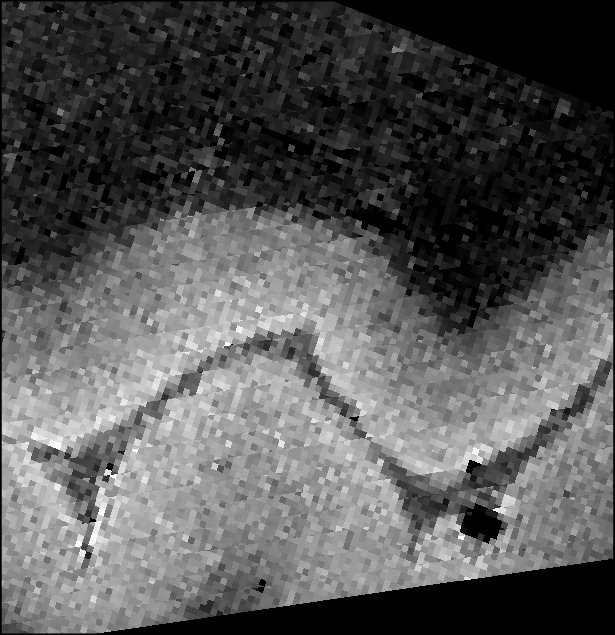
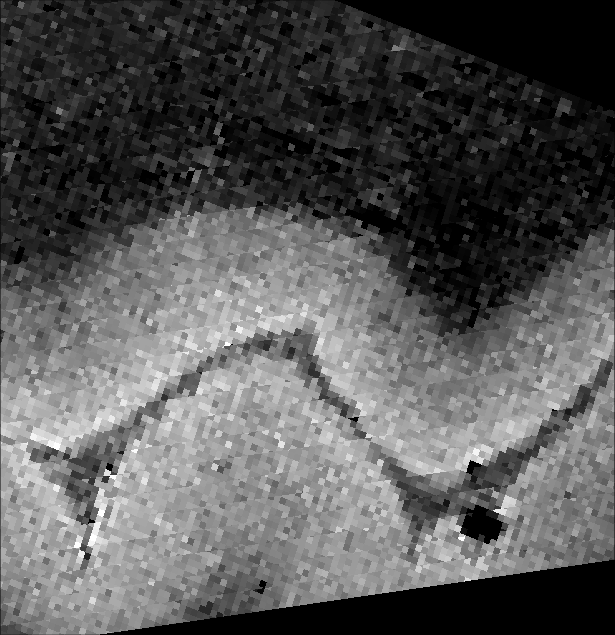
I46 en-face panels: one zoom per freeview session, explicit default windows, accurate captions
freeview multiplies -zoom within a session, so later panels were drawn up to 0.5 % smaller: the zoom is now given once per
session. The windows are freeview's default ones passed explicitly, so a window freeview remembers for a file cannot replace
them. The tools run no longer shoots the OCT of plane 300 again. Captions: the 12 um OCT is the one octreg received, the line
is the label made a surface by mri_mc and mris_smooth -n 3, and a tool shows no line where its boundary does not cross the
plane inside the OCT field of view. The MRI-grid description in bench/i46 is scoped to those panels.

diff --git a/bench/i46/figures.py b/bench/i46/figures.py
@@ -13,19 +13,22 @@ conditions/  for every condition of the test, its crop with the lower median dis
 strip/       every C3 crop of the 10 deg FLASH on the axial plane: the MRI with the line and the OCT through the reference and
              through the first --octreg folder of runs
 enface/      the crop of main/ seen in the OCT's own imaging planes, as the authors show the OCT: three OCT planes
-             (ENFACE_PLANES, one near the top of three sections) of the masked OCT every method received, at one screen
-             pixel per two OCT voxels and freeview's default window, alone (<crop>_p<plane>_oct.png), with the line of main/
-             placed through the reference and through octreg (<crop>_p<plane>_oct_line_<tag>.png), and the MRI crop placed
-             through each (<crop>_p<plane>_mri_<tag>.png), at freeview's default window and interpolation. FreeSurfer
-             places everything: lta_convert writes each transform as an LTA, and freeview resamples the MRI and moves the
-             boundary surface through it (:reg=). On the middle plane also the line through each standard tool of main/
-             (<crop>_p300_oct_line_<tool>.png): where its boundary does not cross the plane there is no line (listed as
-             no_line in figures.json)
-The planes pass through the MRI voxel centre nearest the centre of the OCT tissue placed by the reference. The OCT is
-box-averaged to the MRI voxel size and resampled by octreg's own resampler, and black means no OCT. The 2-pixel red line is
-the white-matter boundary of the authors' manual MRI layer labels, made a surface by FreeSurfer's mri_mc and mris_smooth -n 3
--nw: it comes from no method that is compared. Every panel is one freeview screenshot of the whole plane at two screen pixels
-per MRI voxel (0.15 mm), nothing drawn afterwards. Grey levels are linear: each MRI panel at freeview's default window of its
+             (ENFACE_PLANES, one near the top of three sections) of the 12 um masked OCT that octreg received, at one screen
+             pixel per two OCT voxels, alone (<crop>_p<plane>_oct.png), with the line of main/ placed through the reference
+             and through octreg (<crop>_p<plane>_oct_line_<tag>.png), and the MRI crop placed through each
+             (<crop>_p<plane>_mri_<tag>.png). FreeSurfer places everything: lta_convert writes each transform as an LTA,
+             and freeview resamples the MRI (nearest neighbour, its default) and moves the boundary surface through it
+             (:reg=). The grey windows are freeview's default ones (bench.figures.freeview_window), given explicitly so that
+             a window freeview remembers for a file cannot replace them, and each freeview session sets the zoom once (it
+             multiplies). On the middle plane also the line through each standard tool of main/
+             (<crop>_p300_oct_line_<tool>.png): where its boundary does not cross the plane inside the OCT field of view
+             there is no line (listed as no_line in figures.json)
+main/, conditions/ and strip/ are on the MRI grid. Their planes pass through the MRI voxel centre nearest the centre of
+the OCT tissue placed by the reference. The OCT is box-averaged to the MRI voxel size and resampled by octreg's own
+resampler, and black means no OCT. The 2-pixel red line is the white-matter boundary of the authors' manual MRI layer
+labels, made a surface by FreeSurfer's mri_mc and mris_smooth -n 3 -nw: it comes from no method that is compared. Each of
+their panels is one freeview screenshot of the whole plane at two screen pixels per MRI voxel (0.15 mm), nothing drawn
+afterwards. Grey levels are linear: each MRI panel at freeview's default window of its
 crop (bench.figures.freeview_window), and every OCT panel at the default window of the moving image every method received,
 the masked OCT box-averaged to 0.15 mm. The windows, the plane centre and the plane sizes of each crop are written to
 figures.json in -o. Needs FreeSurfer 8.2 with its licence (in WSL on Windows).
@@ -140,9 +143,9 @@ def crosses(surf, m, T, o, plane):
     return bool((inside & (z.min(1) <= plane) & (z.max(1) >= plane)).any())
 
 
-def enface(crop, transforms, wm, out_dir, prefix, work, planes=ENFACE_PLANES, mri=True):
+def enface(crop, transforms, wm, out_dir, prefix, work, planes=ENFACE_PLANES, mri=True, alone=True):
     """enface/ (module docstring): transforms {tag: 4 x 4 OCT world -> MRI world}, wm the white-matter label on the crop grid,
-    mri whether to make the MRI panels too. -> the panel files"""
+    mri whether to make the MRI panels too, alone whether to shoot the OCT alone. -> the panel files"""
     out_dir.mkdir(parents=True, exist_ok=True)
     work.mkdir(parents=True, exist_ok=True)
     m, o = nib.load(str(crop)), nib.load(str(OCT))
@@ -155,7 +158,10 @@ def enface(crop, transforms, wm, out_dir, prefix, work, planes=ENFACE_PLANES, mr
     ss = lambda name: f"-ss {host_path(out_dir / name)} 1 0"
     surf = host_path(work / "boundary.surf")
     reg = lambda tag: host_path(work / f"{tag}_mri2oct.lta")
-    line_cmd, mri_cmd, expect = [f"-v {host_path(OCT)}"], [f"-v {host_path(OCT)}:visible=0"], {}
+    expect = {}
+    line_cmd = ["-v {}:grayscale={!r},{!r}".format(host_path(OCT), *go)]
+    mri_cmd = ["-v {}:visible=0".format(host_path(OCT))]
+    once = lambda cmd, lines: [x for x in lines if not (x.startswith("-zoom") and any(c.startswith("-zoom") for c in cmd))]
     for plane in planes:
         lines, wh = view(o, "axial", (o.affine @ np.r_[0, 0, plane, 1])[:3])
         size = (wh[0] // 2, wh[1] // 2)                                  # one screen pixel per two OCT voxels
@@ -163,15 +169,17 @@ def enface(crop, transforms, wm, out_dir, prefix, work, planes=ENFACE_PLANES, mr
         INFO[f"{out_dir.name}/{prefix}_p{plane}"] = {
             "oct_window": [round(x, 4) for x in go], "mri_window": [round(x, 4) for x in gm],
             "plane_mm": [round(o.shape[k] * float(o.header.get_zooms()[k]), 2) for k in (0, 1)]}
-        line_cmd += [*lines, ss(f"{prefix}_p{plane}_oct.png")]
-        expect[out_dir / f"{prefix}_p{plane}_oct.png"] = size
+        line_cmd += once(line_cmd, lines)
+        if alone:
+            line_cmd.append(ss(f"{prefix}_p{plane}_oct.png"))
+            expect[out_dir / f"{prefix}_p{plane}_oct.png"] = size
         for tag in transforms:
             line_cmd += [f"-f {surf}:reg={reg(tag)}:edgecolor=red", ss(f"{prefix}_p{plane}_oct_line_{tag}.png"),
                          "-unload surface"]
             expect[out_dir / f"{prefix}_p{plane}_oct_line_{tag}.png"] = size
         for tag in transforms if mri else ():
-            mri_cmd += [f"-v {host_path(crop)}:reg={reg(tag)}", *lines, ss(f"{prefix}_p{plane}_mri_{tag}.png"),
-                        "-unload volume"]
+            mri_cmd += ["-v {}:reg={}:grayscale={!r},{!r}".format(host_path(crop), reg(tag), *gm), *once(mri_cmd, lines),
+                        ss(f"{prefix}_p{plane}_mri_{tag}.png"), "-unload volume"]
             expect[out_dir / f"{prefix}_p{plane}_mri_{tag}.png"] = size
     (work / "lines.cmd").write_text("\n".join(line_cmd + ["-quit"]) + "\n", encoding="utf-8", newline="\n")
     (work / "mri.cmd").write_text("\n".join(mri_cmd + ["-quit"]) + "\n", encoding="utf-8", newline="\n")
@@ -247,7 +255,7 @@ def main():
                         a.out / "enface", crop, WORK / "figures" / "enface" / crop)
         files += enface(crop_file(crop), {k: v for k, v in T.items() if k != "reference" and not k.startswith("octreg")},
                         wm(crop), a.out / "enface", crop, WORK / "figures" / "enface" / crop / "tools", planes=(300,),
-                        mri=False)
+                        mri=False, alone=False)
     conds = [(im, "C3", "") for im in FLIPS] + [(PRIMARY, c, "") for c in CONDITIONS if c != "C3"]
     conds.append((PRIMARY, "C3", "_nomask"))
     for image, cond, suffix in conds if "conditions" in stages else []:

diff --git a/bench/i46/README.md b/bench/i46/README.md
@@ -195,13 +195,13 @@ Every estimate T is compared with R. Both map the OCT world to the MRI world.
 
 ## Pictures
 
-Every panel is a freeview screenshot of a whole plane of the crop at two screen pixels per MRI voxel of 0.15 mm, the OCT on the
-MRI grid through each transform, black where there is no OCT, with the white-matter boundary of the authors' manual MRI labels
-as a red line (`figures.py`). The planes pass through the centre of the OCT tissue placed by R. The grey levels are linear: the
-MRI at freeview's default window of its crop, and every OCT panel at the default window of the masked OCT every method received.
-The windows, the plane centres and the plane sizes of every panel set are in
-[docs/figures/i46/figures.json](../../docs/figures/i46/figures.json). On the crop with the median distance, octreg places the
-OCT 0.38 mm from R on average, about five screen pixels. The bands across the OCT are its 500 µm sections: in each, the OCT
+The panels on the MRI grid (all but the en-face panels at the end) are freeview screenshots of a whole plane of the crop at two
+screen pixels per MRI voxel of 0.15 mm, the OCT on the MRI grid through each transform, black where there is no OCT, with the
+white-matter boundary of the authors' manual MRI labels as a red line (`figures.py`). The planes pass through the centre of the
+OCT tissue placed by R. The grey levels are linear: the MRI at freeview's default window of its crop, and every OCT panel at the
+default window of the masked OCT every method received. The windows, the plane centres and the plane sizes of every panel set
+are in [docs/figures/i46/figures.json](../../docs/figures/i46/figures.json). On the crop with the median distance, octreg places
+the OCT 0.38 mm from R on average, about five screen pixels. The bands across the OCT are its 500 µm sections: in each, the OCT
 intensity falls with the imaging depth.
 
 The crop with the median distance under octreg (the lower of the two middle runs: 10° FLASH, 3 mm margin, k = 0), through octreg
@@ -243,17 +243,18 @@ The same crop in three planes of the OCT itself (`enface/`):
 | 300 | <img src="../../docs/figures/i46/enface/flip1_C3_k0_p300_oct.png" width="140" alt="OCT, plane 300"> | <img src="../../docs/figures/i46/enface/flip1_C3_k0_p300_oct_line_reference.png" width="140" alt="OCT with the line through R, plane 300"> | <img src="../../docs/figures/i46/enface/flip1_C3_k0_p300_oct_line_octreg.png" width="140" alt="OCT with the line through octreg, plane 300"> | <img src="../../docs/figures/i46/enface/flip1_C3_k0_p300_mri_reference.png" width="140" alt="MRI through R, plane 300"> | <img src="../../docs/figures/i46/enface/flip1_C3_k0_p300_mri_octreg.png" width="140" alt="MRI through octreg, plane 300"> |
 | 498 | <img src="../../docs/figures/i46/enface/flip1_C3_k0_p498_oct.png" width="140" alt="OCT, plane 498"> | <img src="../../docs/figures/i46/enface/flip1_C3_k0_p498_oct_line_reference.png" width="140" alt="OCT with the line through R, plane 498"> | <img src="../../docs/figures/i46/enface/flip1_C3_k0_p498_oct_line_octreg.png" width="140" alt="OCT with the line through octreg, plane 498"> | <img src="../../docs/figures/i46/enface/flip1_C3_k0_p498_mri_reference.png" width="140" alt="MRI through R, plane 498"> | <img src="../../docs/figures/i46/enface/flip1_C3_k0_p498_mri_octreg.png" width="140" alt="MRI through octreg, plane 498"> |
 
-The same crop in three planes of the OCT itself, the way Costantini et al. show their OCT: planes 102, 300 and 498 of the
-masked OCT every method received, each three planes below the top of its section, 14.76 × 15.25 mm at one screen pixel per two
-12 µm OCT voxels. From left: the OCT, the OCT with the white-matter boundary placed through R and through octreg, and the MRI
-crop placed through R and through octreg. The line is the boundary surface above. FreeSurfer places it and the MRI: each
-transform is written as an LTA file by lta_convert, and freeview moves the surface and resamples the MRI through it (nearest
-neighbour, its default). Outside the OCT tissue the line continues through the MRI, and where the white matter reaches the
-edge of the crop it runs along that edge. The grey levels are linear, at freeview's default window of the OCT and of the crop.
+The same crop in three planes of the OCT itself, the way Costantini et al. show their OCT: planes 102, 300 and 498 of the 12 µm
+masked OCT that octreg received, each three planes below the top of its section, 14.76 × 15.25 mm at one screen pixel per two
+OCT voxels. From left: the OCT, the OCT with the white-matter boundary placed through R and through octreg, and the MRI crop
+placed through R and through octreg. The line is the boundary surface above (mri_mc, then mris_smooth -n 3). FreeSurfer places
+it and the MRI: each transform is written as an LTA file by lta_convert, and freeview moves the surface and resamples the MRI
+through it (nearest neighbour, its default). Outside the OCT tissue the line continues through the MRI, and where the white
+matter reaches the edge of the crop it runs along that edge. The grey levels are linear, at freeview's default window of the OCT
+and of the crop.
 
 OCT plane 300 with the line through R, through octreg and through each standard tool at its declared setting and with its own
-search. For FLIRT, SynthMorph and the searches of FLIRT and greedy the boundary does not cross this plane, so their panels
-show no line (`no_line` in figures.json). elastix ended without a transform on this crop.
+search. For FLIRT, SynthMorph and the searches of FLIRT and greedy the boundary does not cross this plane inside the OCT field
+of view, so their panels show no line (`no_line` in figures.json). elastix ended without a transform on this crop.
 
 | R | octreg | NiftyReg reg_aladin | greedy | ANTs |
 |---|---|---|---|---|

diff --git a/README.md b/README.md
@@ -299,14 +299,14 @@ interior match and at most three boundary points on any crop, so it refused its 
 | 498 | <img src="docs/figures/i46/enface/flip1_C3_k0_p498_oct.png" width="150" alt="OCT, plane 498"> | <img src="docs/figures/i46/enface/flip1_C3_k0_p498_oct_line_reference.png" width="150" alt="OCT with the line through R, plane 498"> | <img src="docs/figures/i46/enface/flip1_C3_k0_p498_oct_line_octreg.png" width="150" alt="OCT with the line through octreg, plane 498"> | <img src="docs/figures/i46/enface/flip1_C3_k0_p498_mri_reference.png" width="150" alt="MRI through R, plane 498"> | <img src="docs/figures/i46/enface/flip1_C3_k0_p498_mri_octreg.png" width="150" alt="MRI through octreg, plane 498"> |
 
 The crop with the median distance under octreg (10° FLASH, 3 mm margin, k = 0) in three planes of the OCT itself, the way
-Costantini et al. show their OCT: planes 102, 300 and 498 of the masked OCT every method received, each three planes below the
-top of its section, 14.76 × 15.25 mm at one screen pixel per two 12 µm OCT voxels. From left: the OCT, the OCT with the
-white-matter boundary of the authors' manual MRI labels placed through R and through octreg (red), and the MRI crop placed
-through R and through octreg. FreeSurfer places both: each transform is written as an LTA file by lta_convert, and freeview
-moves the boundary surface and resamples the MRI through it (nearest neighbour, its default). Outside the OCT tissue the line
-continues through the MRI, and where the white matter reaches the edge of the crop it runs along that edge. The grey levels
-are linear, at freeview's default window of the OCT and of the crop
-([docs/figures/i46/figures.json](docs/figures/i46/figures.json)).
+Costantini et al. show their OCT: planes 102, 300 and 498 of the 12 µm masked OCT that octreg received, each three planes below
+the top of its section, 14.76 × 15.25 mm at one screen pixel per two OCT voxels. From left: the OCT, the OCT with the
+white-matter boundary of the authors' manual MRI labels placed through R and through octreg (red, the label made a FreeSurfer
+surface by mri_mc and mris_smooth -n 3), and the MRI crop placed through R and through octreg. FreeSurfer places both: each
+transform is written as an LTA file by lta_convert, and freeview moves the boundary surface and resamples the MRI through it
+(nearest neighbour, its default). Outside the OCT tissue the line continues through the MRI, and where the white matter reaches
+the edge of the crop it runs along that edge. The grey levels are linear, at freeview's default window of the OCT and of the
+crop ([docs/figures/i46/figures.json](docs/figures/i46/figures.json)).
 
 | R | octreg | NiftyReg reg_aladin | greedy | ANTs |
 |---|---|---|---|---|
@@ -318,7 +318,7 @@ are linear, at freeview's default window of the OCT and of the crop
 
 OCT plane 300 of the same crop with the white-matter boundary placed through R, through octreg and through each standard tool
 at its declared setting and with its own search. For FLIRT, SynthMorph and the searches of FLIRT and greedy the boundary does
-not cross this plane, so their panels show no line. elastix ended without a transform on this crop.
+not cross this plane inside the OCT field of view, so their panels show no line. elastix ended without a transform on this crop.
 [bench/i46](bench/i46/README.md) shows the crop on the MRI grid in three planes, the median crop of every condition, and all
 ten crops of this condition.
 
